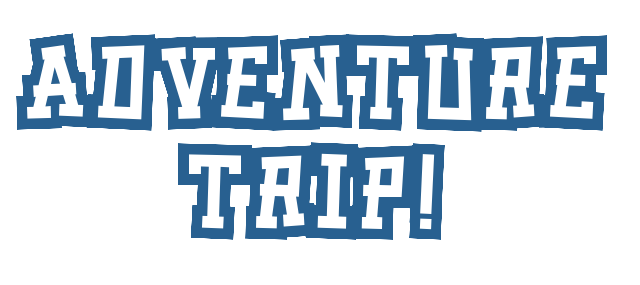
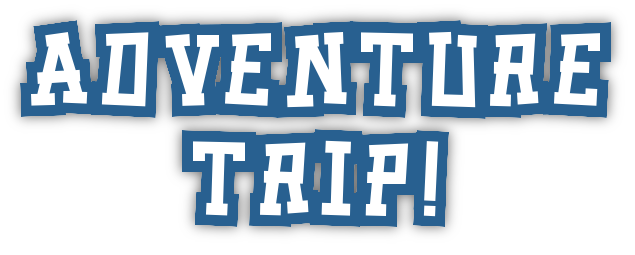
Add home scrolling and update title.

diff --git a/Source/app/assets/stylesheets/users.scss b/Source/app/assets/stylesheets/users.scss
@@ -2,6 +2,11 @@
 // They will automatically be included in application.css.
 // You can use Sass (SCSS) here: http://sass-lang.com/
 
+@font-face {
+    font-family: roadTrip;
+    src: url(RoadTrip.ttf);
+}
+
 body {
     margin: 0;
 }
@@ -13,7 +18,9 @@ body {
 
 .homeImage {
     height: 100%;
+    left: 0;
     position: absolute;
+    top: 0;
     width: 100%;
 }
 
@@ -38,4 +45,12 @@ body {
     padding: 6px 1em;
     position: absolute;
     transform: translateX(-50%);
+
+    &:focus {
+        outline: 0;
+    }
+}
+
+.homeBottom {
+    height: 100vh;
 }
